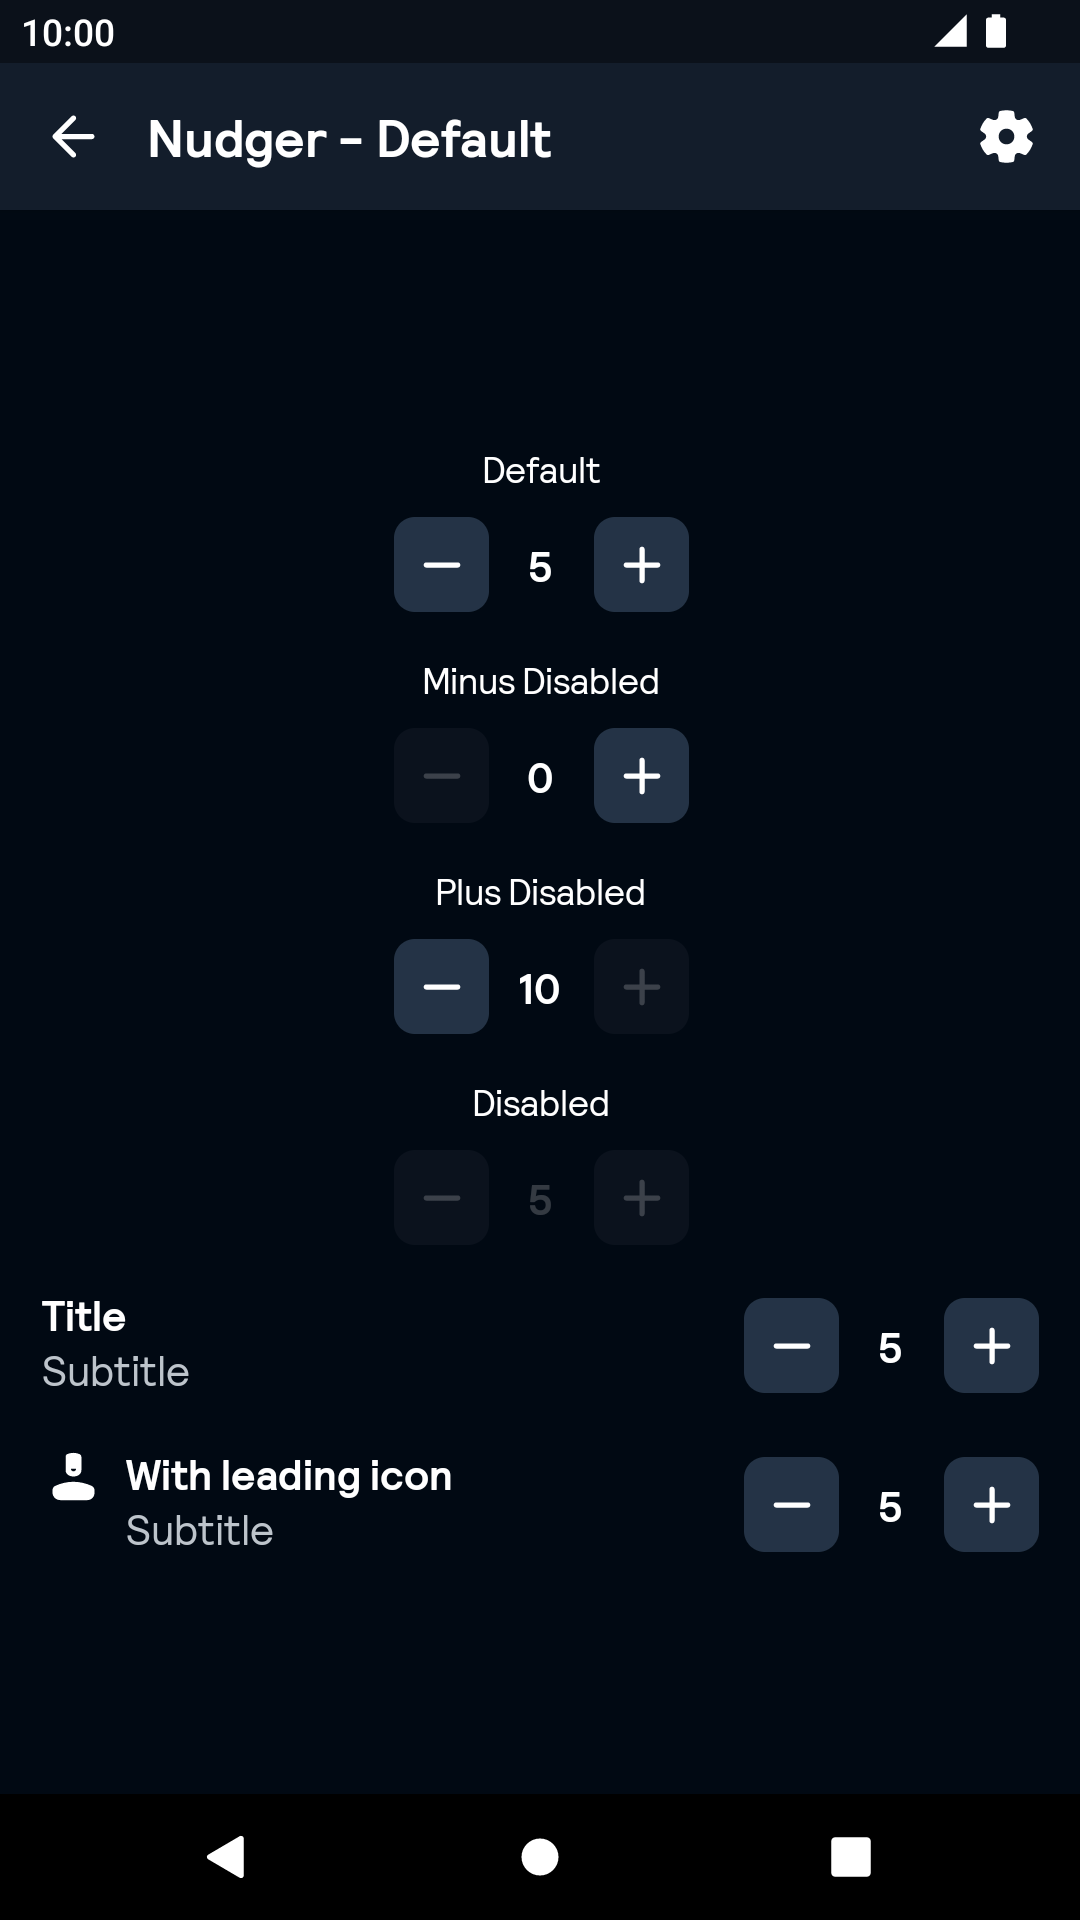
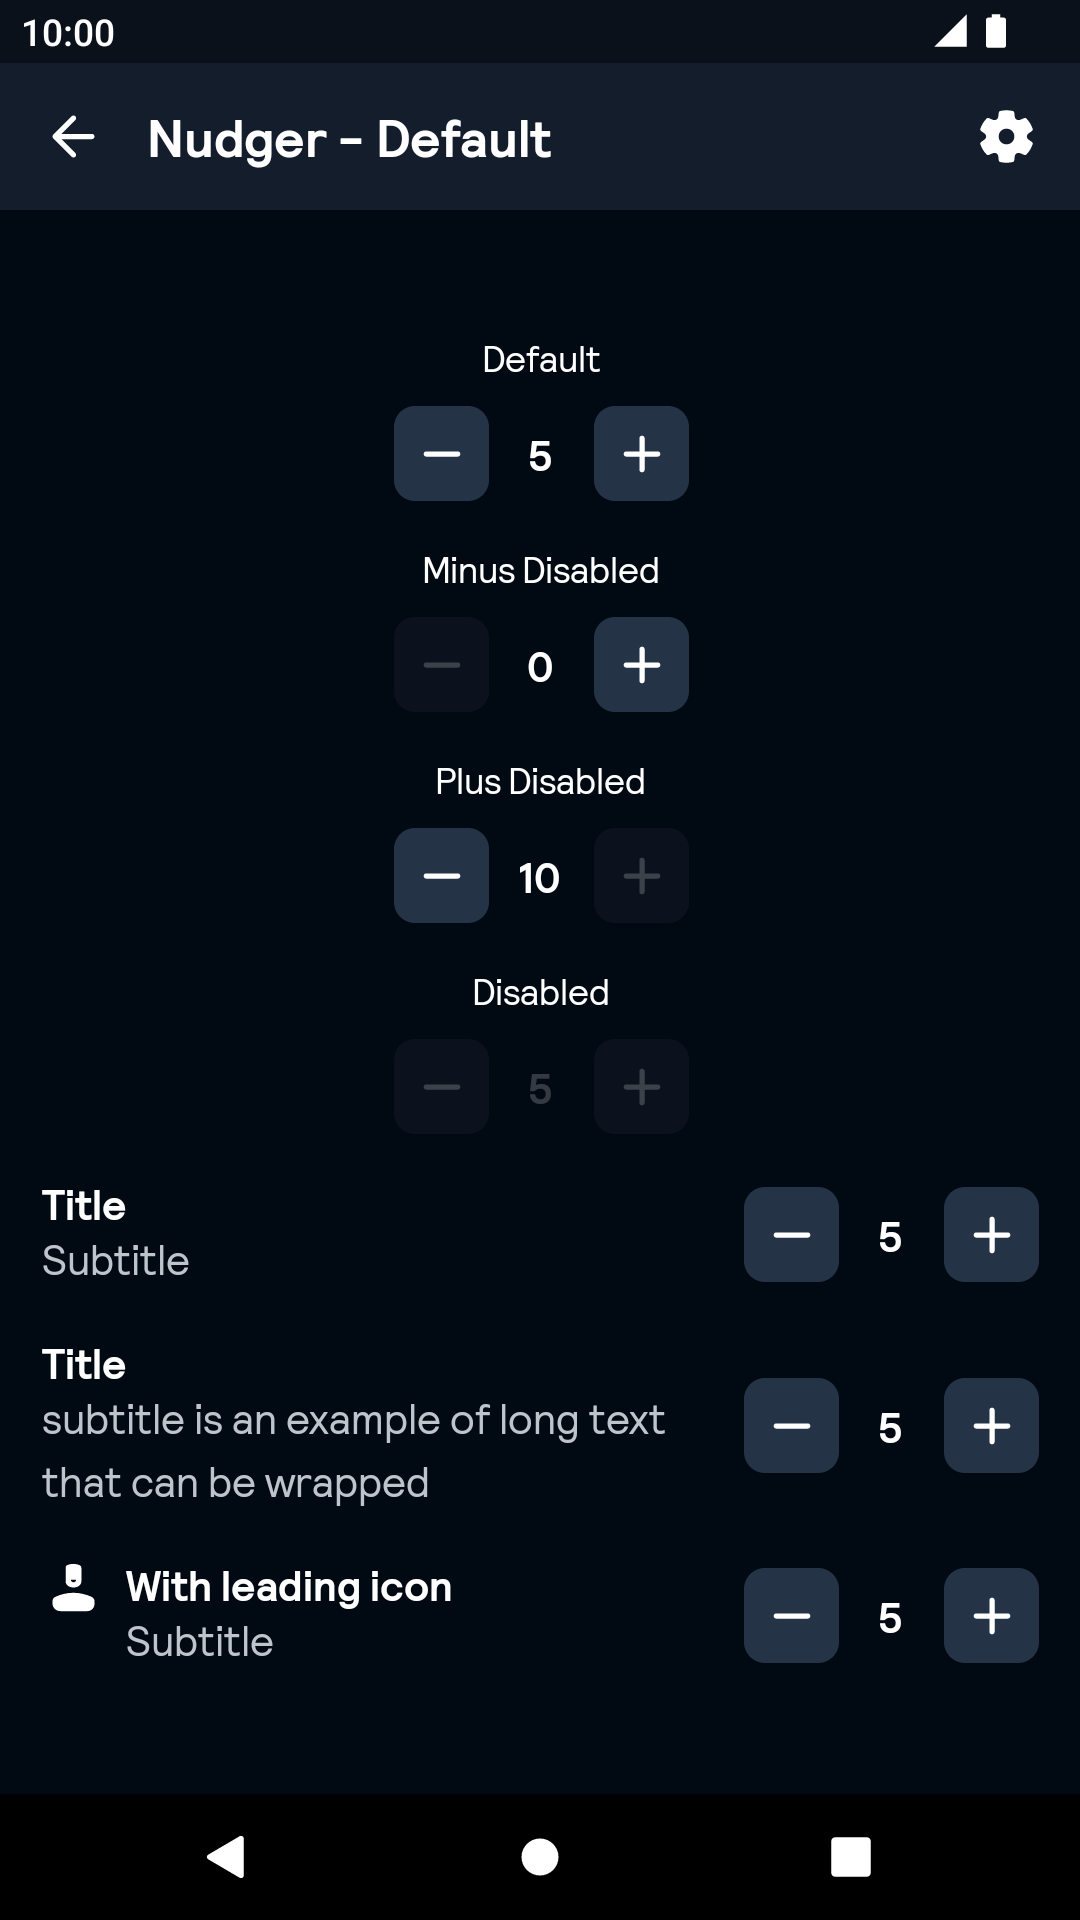
remove unuse line since default values and add more line case snapshot

diff --git a/app/src/main/java/net/skyscanner/backpack/demo/compose/NudgerStory.kt b/app/src/main/java/net/skyscanner/backpack/demo/compose/NudgerStory.kt
@@ -74,6 +74,11 @@ fun NudgerStory(modifier: Modifier = Modifier) {
 
         NudgerRowExample(
             modifier = Modifier.fillMaxWidth(),
+            subtitle = "subtitle is an example of long text that can be wrapped",
+        )
+
+        NudgerRowExample(
+            modifier = Modifier.fillMaxWidth(),
             title = stringResource(R.string.generic_with_leading_icon),
             icon = BpkIcon.Account,
         )

diff --git a/backpack-compose/src/main/kotlin/net/skyscanner/backpack/compose/nudger/BpkNudger.kt b/backpack-compose/src/main/kotlin/net/skyscanner/backpack/compose/nudger/BpkNudger.kt
@@ -160,8 +160,6 @@ fun BpkNudger(
                         text = subtitle,
                         style = BpkTheme.typography.bodyDefault,
                         color = BpkTheme.colors.textSecondary,
-                        maxLines = Int.MAX_VALUE,
-                        overflow = TextOverflow.Clip,
                         modifier = Modifier.invisibleSemantic(),
                     )
                 }
